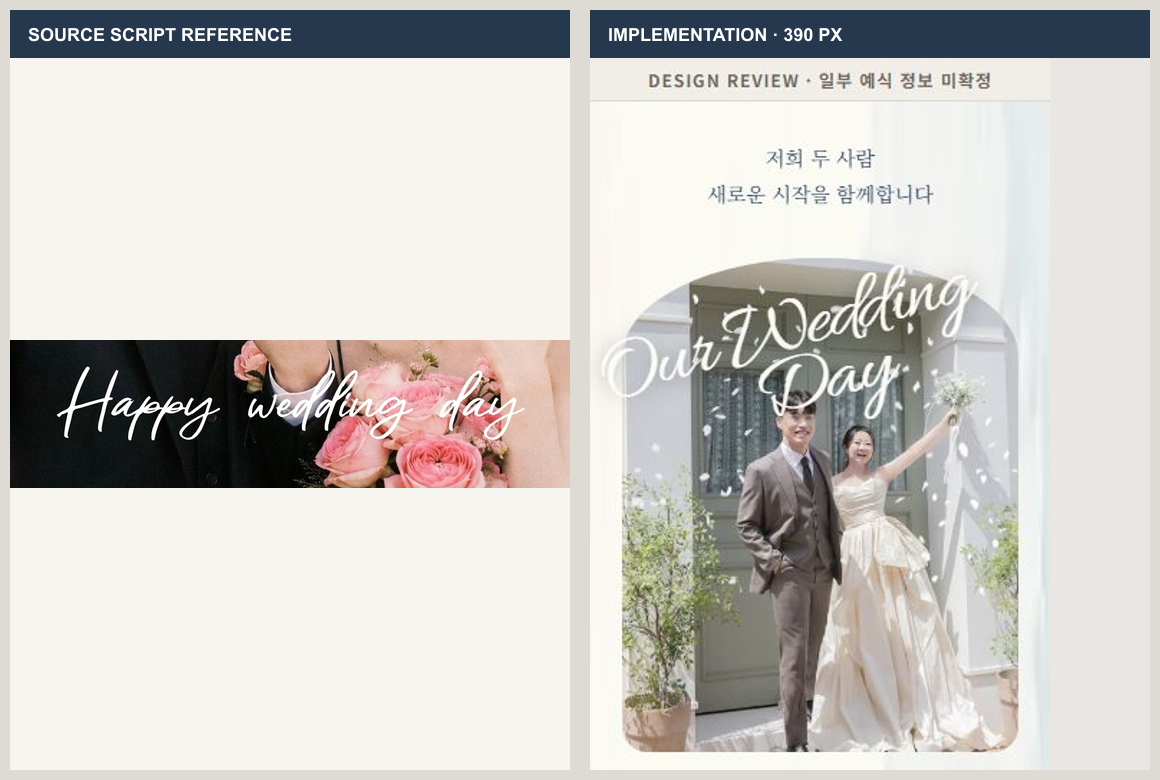
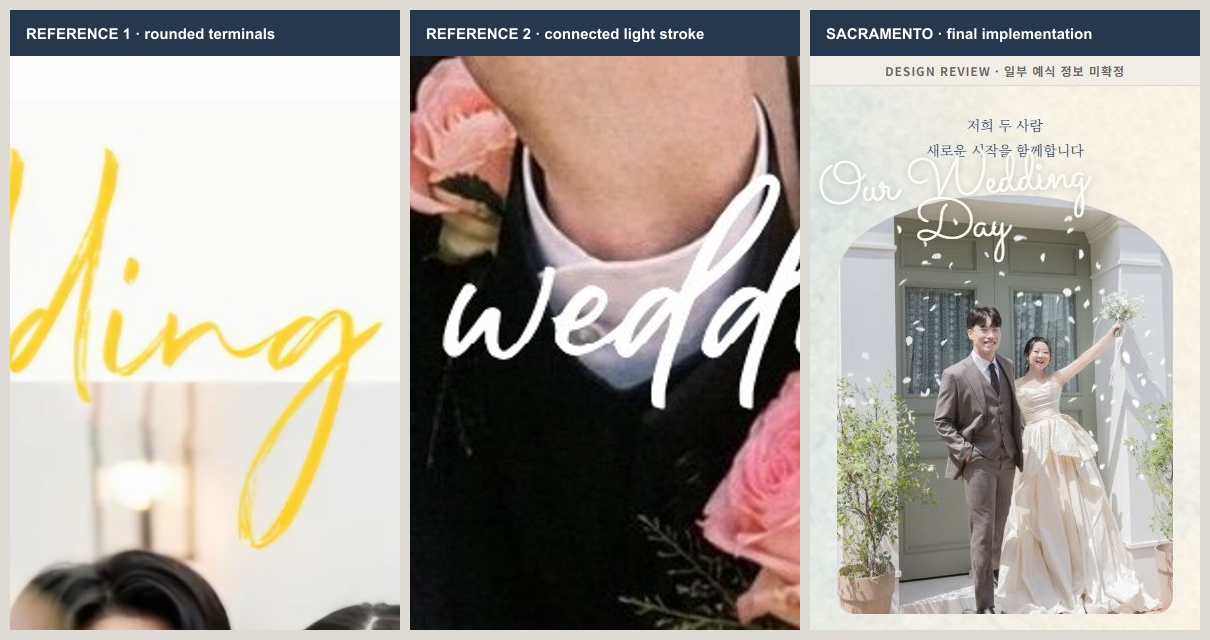
feat: 파스텔 방명록 피드백 반영

diff --git a/src/styles.css b/src/styles.css
@@ -1,5 +1,5 @@
 @import "@fontsource-variable/cormorant-garamond";
-@import "@fontsource/allura/400.css";
+@import "@fontsource/sacramento/400.css";
 @import "@fontsource-variable/noto-serif-kr";
 @import "@fontsource-variable/noto-sans-kr";
 
@@ -240,7 +240,9 @@ button:focus-visible, a:focus-visible { outline: 2px solid #315174; outline-offs
 .contact-actions { display: flex; gap: 6px; }
 .contact-actions a { display: grid; width: 44px; height: 44px; place-items: center; color: inherit; background: rgba(255, 255, 255, .72); border: 1px solid rgba(91, 82, 73, .14); border-radius: 50%; text-decoration: none; }
 .contact-actions svg { width: 18px; height: 18px; }
-.account-groups { display: grid; gap: 8px; margin-top: 10px; }
+.account-groups { display: grid; gap: 8px; margin-top: 28px; }
+.account-section-heading { margin-bottom: 2px; text-align: center; }
+.account-section-heading h3 { margin: 0; color: #4a5f75; font-family: "Noto Serif KR Variable", serif; font-size: 18px; font-weight: 520; }
 .account-list { padding: 0 12px 9px; }
 .account-row { display: grid; min-height: 64px; padding: 8px 2px; grid-template-columns: minmax(0, 1fr) auto; align-items: center; gap: 8px; border-top: 1px solid rgba(91, 82, 73, .11); }
 .account-details { display: grid; min-width: 0; gap: 3px; }
@@ -263,21 +265,16 @@ button:focus-visible, a:focus-visible { outline: 2px solid #315174; outline-offs
 .pastel-invitation::before,
 .pastel-invitation::after { position: absolute; z-index: 0; inset: 0; content: ""; pointer-events: none; }
 .pastel-invitation::before {
-  background-image:
-    url("/assets/design/pastel-watercolor-wash.webp"),
-    radial-gradient(ellipse at 5% 19%, rgba(202, 225, 241, .32), transparent 24%),
-    radial-gradient(ellipse at 96% 44%, rgba(246, 211, 218, .29), transparent 25%),
-    radial-gradient(ellipse at 8% 67%, rgba(212, 229, 241, .25), transparent 25%),
-    radial-gradient(ellipse at 91% 88%, rgba(244, 213, 220, .24), transparent 24%);
-  background-position: 50% 0, 0 0, 0 0, 0 0, 0 0;
+  background-image: url("/assets/design/pastel-watercolor-surface.webp");
+  background-position: 20% center;
   background-repeat: no-repeat;
-  background-size: 310% 100%, 100% 100%, 100% 100%, 100% 100%, 100% 100%;
-  opacity: .82;
+  background-size: auto 100%;
+  opacity: .92;
 }
 .pastel-invitation::after {
-  background: url("/assets/design/pastel-paper-grain.svg") 0 0 / 180px 180px repeat;
+  background: url("/assets/design/pastel-paper-grain.svg") 0 0 / 150px 150px repeat;
   mix-blend-mode: multiply;
-  opacity: .18;
+  opacity: .22;
 }
 .pastel-invitation > * { position: relative; z-index: 1; }
 .pastel-hero { position: relative; padding: clamp(26px, 7vw, 34px) 0 clamp(34px, 9vw, 42px); overflow: visible; background: transparent; }
@@ -286,20 +283,20 @@ button:focus-visible, a:focus-visible { outline: 2px solid #315174; outline-offs
 .pastel-hero-photo { width: 86%; aspect-ratio: 4 / 5; margin: 0 auto clamp(32px, 8vw, 40px); overflow: visible; border-radius: 50% 50% 18px 18px / 20% 20% 18px 18px; }
 .pastel-hero-photo img { border-radius: inherit; filter: saturate(.88) contrast(.96) brightness(1.02); }
 .pastel-hero-photo .photo-overlay-label {
-  --hero-label-rotation: -15deg;
-  top: 10%;
-  left: clamp(-22px, -4vw, -14px);
+  --hero-label-rotation: -4deg;
+  top: clamp(-28px, -6.5vw, -20px);
+  left: clamp(-20px, -4.5vw, -13px);
   display: grid;
   justify-items: start;
   color: rgba(255, 253, 248, .98);
-  font-family: "Allura", cursive;
-  font-size: clamp(50px, 15.2vw, 65px);
+  font-family: "Sacramento", cursive;
+  font-size: clamp(52px, 15vw, 64px);
   font-weight: 400;
   line-height: .62;
   letter-spacing: -.035em;
-  text-shadow: 0 2px 16px rgba(25, 38, 48, .52);
+  text-shadow: 0 1px 7px rgba(25, 38, 48, .26);
 }
-.pastel-hero-photo .photo-overlay-label-line.is-day { margin-top: .08em; margin-left: clamp(84px, 26vw, 112px); }
+.pastel-hero-photo .photo-overlay-label-line.is-day { margin-top: 0; margin-left: clamp(78px, 24vw, 104px); }
 .pastel-hero-copy { position: relative; display: flex; padding: 0 30px; flex-direction: column; align-items: center; justify-content: center; background: transparent; text-align: center; }
 .pastel-hero h1 { margin: 0; font-family: "Noto Serif KR Variable", serif; font-size: 29px; font-weight: 430; letter-spacing: .12em; }
 .pastel-hero h1 b { font-weight: 300; }

diff --git a/src/App.jsx b/src/App.jsx
@@ -399,7 +399,10 @@ function AccountGroups({ notify }) {
   };
 
   return (
-    <div className="account-groups" aria-label="계좌 안내">
+    <section className="account-groups" aria-labelledby="account-title">
+      <div className="account-section-heading">
+        <h3 id="account-title">마음 전하실 곳</h3>
+      </div>
       {Object.values(weddingContent.accounts).map((account) => (
         <details className={`contact-group account-group is-${account.key}`} key={account.key}>
           <summary>
@@ -423,7 +426,7 @@ function AccountGroups({ notify }) {
           </div>
         </details>
       ))}
-    </div>
+    </section>
   );
 }
 
@@ -657,9 +660,9 @@ function GuestbookSection({ notify }) {
     <section className="guestbook-section section-pad" aria-labelledby="guestbook-title">
       <div className="section-heading">
         <p className="eyebrow">PRIVATE GUESTBOOK</p>
-        <h2 id="guestbook-title">마음을 전해 주세요</h2>
+        <h2 id="guestbook-title">방명록을 남겨주세요</h2>
       </div>
-      <p className="guestbook-privacy">메시지는 공개되지 않으며 신랑·신부만 확인할 수 있습니다.</p>
+      <p className="guestbook-privacy">메시지는 공개되지 않으며<br />신랑·신부만 확인할 수 있습니다.</p>
       {receipt && (
         <div className="guestbook-receipt" role="status">
           <span>수정용 접수 번호</span>
@@ -692,8 +695,8 @@ function GuestbookSection({ notify }) {
         </label>
         <label>
           <span>비밀번호</span>
-          <input type="password" value={password} onChange={(event) => setPassword(event.target.value)} required minLength={8} maxLength={72} autoComplete={mode === "write" ? "new-password" : "current-password"} />
-          <small>8자 이상 · 서버에서 단방향 해시로만 보관합니다.</small>
+          <input type="password" value={password} onChange={(event) => setPassword(event.target.value)} required minLength={4} maxLength={72} autoComplete={mode === "write" ? "new-password" : "current-password"} />
+          <small>4자 이상</small>
         </label>
         {(mode === "write" || unlocked) && (
           <label>

diff --git a/worker/index.js b/worker/index.js
@@ -1,6 +1,7 @@
 const API_PREFIX = "/api/guestbook";
 const PASSWORD_ITERATIONS = 600_000;
 const MAX_BODY_BYTES = 8_192;
+const GUESTBOOK_RETENTION = "permanent";
 
 function json(body, status = 200, extraHeaders = {}) {
   return new Response(JSON.stringify(body), {
@@ -93,7 +94,7 @@ function normalizeEntry(payload, { requireMessage = true } = {}) {
   const password = typeof payload.password === "string" ? payload.password : "";
   const message = typeof payload.message === "string" ? payload.message.trim() : "";
   if (name.length < 1 || name.length > 30) throw { status: 400, code: "INVALID_NAME", message: "이름은 1~30자로 입력해 주세요." };
-  if (password.length < 8 || password.length > 72) throw { status: 400, code: "INVALID_PASSWORD", message: "비밀번호는 8~72자로 입력해 주세요." };
+  if (password.length < 4 || password.length > 72) throw { status: 400, code: "INVALID_PASSWORD", message: "비밀번호는 4~72자로 입력해 주세요." };
   if (requireMessage && (message.length < 1 || message.length > 500)) {
     throw { status: 400, code: "INVALID_MESSAGE", message: "메시지는 1~500자로 입력해 주세요." };
   }
@@ -123,7 +124,7 @@ async function createEntry(request, env) {
   await db.prepare(
     "INSERT INTO guestbook_entries (id, name, message, password_hash, created_at, updated_at) VALUES (?, ?, ?, ?, ?, ?)",
   ).bind(id, name, message, passwordHash, timestamp, timestamp).run();
-  return json({ id }, 201);
+  return json({ id, retention: GUESTBOOK_RETENTION }, 201);
 }
 
 async function unlockEntry(request, env, id) {
@@ -160,6 +161,7 @@ function getTrustedAdminEmail(request, env) {
     .split(",")
     .map((value) => value.trim().toLowerCase())
     .filter(Boolean);
+  if (allowed.length !== 2 || new Set(allowed).size !== 2) return null;
   return allowed.includes(email) ? email : null;
 }
 

diff --git a/design-qa.md b/design-qa.md
@@ -1,34 +1,28 @@
 # Design QA
 
-## Accepted pass — Pastel script overlay, continuous watercolor, private guestbook, and opt-in music
+## Current accepted pass — Sacramento label, full-surface watercolor, and private guestbook policy
 
-### Source and implementation evidence
+### References, font decision, and implementation evidence
 
-- Script source: `C:\Users\enmso\AppData\Local\Temp\codex-clipboard-afa74bd9-0c52-4bf9-98cd-8e93847e741a.png`.
-- Script implementation capture: `artifacts/qa/pastel-hero-script-390.png`, CSS viewport 390 × 844, `devicePixelRatio: 1`, `?variant=pastel&capture=1`.
-- Focused script comparison inspected as one image: `artifacts/qa/pastel-script-reference-comparison.png`.
-- Calendar seam source: `C:\Users\enmso\AppData\Local\Temp\codex-clipboard-01ed0016-ff59-4c41-833f-5c38d9582124.png`.
-- Calendar implementation capture: `artifacts/qa/pastel-calendar-seam-390.png`, CSS viewport 390 × 844, `devicePixelRatio: 1`, scrolled invitation state.
-- Focused seam comparison inspected as one image: `artifacts/qa/pastel-calendar-seam-comparison.png`.
+- Active script source truth is the supplied `1-사진-1.jpg` and `2-사진-2.jpg` in `C:\Users\enmso\.codex\codex-remote-attachments\019ff501-f8d7-7280-b3f3-9fed0fbb6140\1A1AB2CB-03BC-490D-A976-70A65304E6E7`. The earlier clipboard reference is deliberately excluded from current comparison and decision-making.
+- `artifacts/qa/pastel-script-font-candidates-390.png` is the same-phrase, same-size, same-photo-placement comparison for self-hostable OFL-1.1 Sacramento, Parisienne, Italianno, and Alex Brush. Sacramento was selected: it preserves the requested smooth, rounded terminals; Alex Brush is closer in some reference letter shapes but has sharper terminals that could repeat the reported defect.
+- `artifacts/qa/pastel-script-reference-comparison.png` compares both active references with the final 390px Sacramento implementation. The label remains a restrained `-4deg` two-line `Our Wedding` / `Day` treatment rather than the former strong rotation; its 390px bounds are `7.5..280.1px` inside the `0..390px` invitation, with the image left edge at `27.3px`. It remains unclipped and visually clear of the groom's head.
+- Final whole-page background is `public/assets/design/pastel-watercolor-surface.webp` (864 × 1821, 68,646 bytes), rendered once at `auto 100%` beneath the existing repeated real paper-grain SVG. It replaces the 1.89MB staging PNG and avoids CSS radial gradients, 3:1 wash repetition, and vertically stretched `310% 100%` raster treatment.
+- The full-page raster came from built-in ImageGen after the supplied wash showed repeat banding. Prompt summary: a vertical warm-ivory watercolor-paper surface with distributed powder-blue and blush washes, fine paper fibers, no people, text, objects, borders, panels, bands, or seams. No supplied person photograph was AI-edited.
+- IAB Browser evidence uses the LAN preview `http://192.168.0.196:4173/?variant=pastel&capture=1`, CSS viewport 390 × 844, `devicePixelRatio: 1`: `artifacts/qa/pastel-sacramento-final-390-top.png`, `artifacts/qa/pastel-watercolor-surface-390-middle.png`, and `artifacts/qa/pastel-watercolor-surface-390-bottom.png`. The top, story/venue middle, and guestbook/footer bottom all retain restrained texture and watercolor without a repeated boundary or contrast loss.
 
-### Findings and fixes
+### Content, privacy, and activation boundary
 
-- Initial script mismatch: Dancing Script was round and casual, stayed too close to the photo interior, and used only a mild diagonal. Fix: self-hosted Allura, exact two-line `Our Wedding` / `Day`, `-15deg` rotation, a larger fluid size, and a second-line offset. At 390px its bounds were `6.09..282.19px` inside the `0..390px` invitation while extending left of the `27.30px` photo edge; there was no clipping or horizontal overflow.
-- Initial seam mismatch: three isolated placements of the 1200 × 400 watercolor source left visually separate coverage bands around the calendar. Fix: one full-height watercolor layer at `310% 100%`, four overlapping distributed blue/blush washes, one unchanged paper-grain layer, and transparent sections. The focused calendar composite shows no hard horizontal boundary between family copy, `WEDDING DAY`, the heading, and the calendar grid.
-- Music is a compact 44px fixed play/pause control with no autoplay and `preload="none"`. Live browser evidence was paused at `currentTime: 0`, played only after a click (`currentTime: 0.491`, `paused: false`), and returned to `paused: true`. Footer credit identifies Kevin MacLeod and links CC BY 4.0.
-- The public guestbook renders name/password/message fields but no message list or admin link. The author receives and can copy an opaque edit receipt after creation; the receipt is also stored on the same device. Missing API/storage returns an explicit message that nothing was sent.
-- `/admin/guestbook` is a separate couple-only surface. The Worker list endpoint fails closed without D1 and trusted upstream identity; no client-side administrator secret is present.
+- Pastel separates `마음 전하실 곳` from `방명록을 남겨주세요`. The private notice has a visual line break immediately after `메시지는 공개되지 않으며`, and the form/API/tests/docs use the same 4–72 character password contract. Hash-explanation copy is absent from the invitation while server-side PBKDF2-HMAC-SHA256 verification remains intact.
+- Create responses declare `retention: "permanent"`; no expiration, TTL, cleanup, or public guestbook-list endpoint exists. Retention does not bypass ordinary backup or operations controls.
+- `/admin/guestbook` and its API fail closed without D1 plus trusted upstream identity. The Worker accepts only exactly two distinct deployment-environment allowlist values. The actual groom/bride addresses are intentionally absent from source, tests, documentation, bundles, and QA artifacts; no external environment was changed.
 
-### Responsive and accessibility evidence
+### Verification status
 
-- Both Quiet and Pastel passed live checks at 360, 390, 430, 768, and 1440px: zero horizontal overflow, invitation capped at 430px above mobile widths, minimum tested control height 44px, and capture-mode sections immediately visible.
-- Pastel script bounds stayed inside the invitation at every required width. Quiet had no visual regression.
-- Keyboard focus showed a 2px solid outline on the variant control. Reduced-motion/capture behavior remains covered by the passing UI suite.
-- `npm run lint` passed; UI tests passed 34/34; Sites and private guestbook tests passed 10/10; design build and D1 migration packaging passed.
-
-### Remaining production activation boundary
-
-- Visual implementation is accepted. Production guestbook activation remains blocked until a real D1 database is provisioned, the migration is applied, and Sites Sign in with ChatGPT or an equivalent trusted identity gateway supplies an exact couple email allowlist. A distributed create/unlock/update rate limit is also required before public enablement.
+- IAB Browser LAN checks at 360, 390, 430, 768, and 1440px for both Quiet and Pastel found `scrollWidth === clientWidth`, zero failed images, a 430px desktop invitation cap, one calendar and one share action, and immediate capture-mode section visibility. Pastel has five photo triggers and Quiet keeps four; the Pastel label remains inside the invitation at every width.
+- Action controls measured 44px or more (the only smaller interactive element is the inline `CC BY 4.0` attribution link, not a utility control). Keyboard Tab reached the Pastel hero trigger with a 2px solid, 3px-offset focus outline. Emulated `prefers-reduced-motion: reduce` reported `labelAnimation: none`, static `-4deg` treatment, reveal opacity `1`, transform `none`, and transition duration `0s`.
+- `npm run lint` passed. `npm run test:ui` passed 35/35. `npm run build:design` passed and copied the 68,646-byte WebP to `dist/client/assets/design/`; `dist/client/index.html`, `dist/server/index.js`, and `dist/.openai/hosting.json` exist. `npm run test:sites` passed 12/12, including four-character password and exact-two-distinct-environment-allowlist cases.
+- Repository scans found no stale 8-character guestbook contract and no literal groom/bride administrator addresses. The final dependency tree contains Sacramento only; individual candidate captures, the comparison route/UI, unused candidate packages, and the staging PNG are absent.
 
 final result: passed
 
@@ -36,7 +30,7 @@ final result: passed
 
 ### Implemented outcome
 
-- The Pastel-only hero label now uses the self-hosted Latin `Dancing Script` webfont as a lightweight, diagonal two-line `Our Wedding` / `Day` composition. It extends slightly beyond the left photo edge while remaining inside the invitation; the approved 86% arched frame and `50% 58%` photo focal position are unchanged.
+- Earlier handwritten-script experiments are superseded by the current Sacramento decision and must not be used as implementation or visual-reference evidence. The approved 86% arched frame and `50% 58%` photo focal position remain unchanged.
 - The supplied watercolor wash is distributed through the full Pastel invitation at three natural positions, with low-opacity blue/blush support washes and a local procedural paper-grain asset behind content. It is no longer visually concentrated only at the hero's upper edge.
 - Pastel inter-section reveal gaps increase from 14px to 28px and its internal section padding is more generous, without adding spacer sections or changing Quiet spacing.
 - Pastel contact and account disclosures are independently collapsed by default. Groom/bride emoji markers appear on all four summary titles; each account has an accessible copy control. Account values are modeled once in source and intentionally omitted from tests, logs, and this QA record.
@@ -44,7 +38,7 @@ final result: passed
 
 ### Live browser evidence
 
-- At 360, 390, 430, 768, and 1440px, Pastel had no horizontal overflow or loaded-image failures. The hero stayed at a 0.86 photo-to-invitation ratio; the label used `Dancing Script`, crossed the photo's left edge, and stayed within the invitation.
+- At 360, 390, 430, 768, and 1440px, the earlier Pastel version had no horizontal overflow or loaded-image failures. The current-font evidence is the top-level Sacramento pass.
 - The two Pastel account disclosures were initially closed, the two copy controls remained at least 44px tall, and a copy click produced the expected success feedback without exposing the value in QA evidence.
 - The shared Pastel lightbox opened from the hero with focus on `갤러리 닫기`; Escape closed it and restored focus to the hero trigger. Under emulated reduced motion, the label animation was disabled while its static diagonal stayed intact, and reveal sections rendered opaque with no transform.
 - Quiet regression at the same five widths found no overflow or loaded-image failures, exactly four photo triggers, no account disclosure, and one calendar plus one share action. Its lightbox kept the same keyboard focus restoration behavior.

diff --git a/AGENTS.md b/AGENTS.md
@@ -19,8 +19,8 @@
 - Quiet and Pastel photographs share one accessible lightbox behavior. Keep its backdrop in the active invitation's light paper/pastel tone rather than introducing a dark gallery surface.
 - Pastel uses a real-photo-first hero and one continuous watercolor paper surface without a divider above `INVITATION`. Keep the single calendar action and the single share action together in the footer; do not restore top or duplicate calendar/copy controls.
 - Pastel keeps `2026년 12월` and `27일 일요일 · 오후 3시 예식` as one tight, centered two-line calendar heading. Do not separate them across the row or omit the weekday.
-- Pastel displays the exact English label `Our Wedding Day` as a self-hosted handwritten/calligraphic webfont in a lightly diagonal two-line `Our Wedding` / `Day` treatment. Let it extend slightly past the inset photo's left edge without clipping, adding a card, or changing the approved crop; reduced motion keeps the static diagonal treatment.
-- Pastel carries a subtle paper texture and distributed powder-blue/blush watercolor wash across the full invitation, rather than concentrating color only in the hero or top-right. Keep it behind readable content and use no separate color panels.
+- Pastel displays the exact English label `Our Wedding Day` in a self-hosted Sacramento (OFL-1.1) script treatment, using the two-line `Our Wedding` / `Day` composition with a restrained diagonal. The source truth is `1-사진-1.jpg` and `2-사진-2.jpg` in the supplied attachment folder: prioritize smooth rounded terminals, raise the label clear of the groom's head, and let it extend slightly past the inset photo's left edge without clipping, adding a card, or changing the approved crop; reduced motion keeps the static diagonal treatment.
+- Pastel carries a visible-but-restrained paper texture and distributed powder-blue/blush watercolor wash across the full invitation, rather than concentrating color only in the hero or top-right. Keep it behind readable content and use no separate color panels. The supplied 3:1 wash produced visible repeat bands, so use the project-local nonrepeating optimized `pastel-watercolor-surface.webp` full-page asset behind the real paper-grain SVG; never reintroduce CSS radial gradients or a vertically stretched `310% 100%` treatment.
 - Invitation sections use restrained opacity/vertical scroll reveals and increased natural spacing, while `prefers-reduced-motion` and capture mode render every section immediately without motion.
 - The approved Pastel top-hero source is `KSJ_1400.jpg`, served only through optimized `public/assets/photos/pastel-hero-480.webp` and `pastel-hero-960.webp` derivatives. Preserve its 4:5 arched frame and `50% 58%` focal position; do not change Quiet's hero or any Pastel gallery selection when replacing it.
 - A venue-map screenshot may render only from the local real asset contract with descriptive alt text and preserved source attribution. Never restore a fictional design map.
@@ -32,8 +32,9 @@
 - Confirmed public account content is modeled only in `weddingContent.accounts` and renders in Pastel as independent, initially collapsed groom-side and bride-side disclosures with an accessible copy action. Do not duplicate literal account values in tests, logs, or reader-facing QA records.
 - Background music is approved only as an opt-in enhancement: playback must start off. Do not add a control or substitute any track until an exact licensed audio asset and its public playback terms are supplied.
 - The selected background track is Kevin MacLeod's `Touching Moments One - Pulse` (ISRC `USUAN1100039`) under CC BY 4.0. Keep the verified local MP3, visible footer attribution, compact 44px play/pause control, no autoplay, and paused initial state.
-- The guestbook is private and write-only for public visitors. Authors create with name, message, and an 8-72 character password, receive an opaque receipt id for later recovery, and may retrieve or edit only that one entry after server-side name/password verification. Never expose a public list endpoint.
-- Couple-only guestbook reading belongs at `/admin/guestbook` behind an upstream authenticated identity gateway and exact email allowlist. Store only salted PBKDF2-HMAC-SHA256 password verifiers in D1, never plaintext passwords, and fail closed when D1 or trusted admin identity is unavailable; do not add an in-memory or client-secret fallback.
+- The guestbook is private and write-only for public visitors. Authors create with name, message, and a 4-72 character password, receive an opaque receipt id for later recovery, and may retrieve or edit only that one entry after server-side name/password verification. Never expose a public list endpoint. The invitation UI must not explain hashing; server-side password-verifier security remains required.
+- Guestbook messages have permanent retention: do not add deletion, expiry, TTL, or cleanup behavior without a new explicit decision.
+- Couple-only guestbook reading belongs at `/admin/guestbook` behind an upstream authenticated identity gateway and exactly two approved administrator emails configured only in the deployment environment. Never commit, bundle, source-map, log, or render those addresses. Store only salted PBKDF2-HMAC-SHA256 password verifiers in D1, never plaintext passwords, and fail closed when D1 or trusted admin identity is unavailable; do not add an in-memory or client-secret fallback.
 - The confirmed event facts support the shared December calendar and start-only iCalendar action. Pastel now includes the selected `예식 일정` calendar presentation; keep exactly one footer calendar action and do not add a countdown, event timeline, or duplicate save control without a new decision.
 - Mobile readability is acceptance-critical. Do not preserve mockup-scale microtype when it becomes difficult to read on a physical phone.
 - Activate safe client-side utilities as soon as their required facts are confirmed. A start-only iCalendar event must omit `DTEND` rather than infer an end time; confirmed couple and parent contacts remain active through direct phone and message links.

diff --git a/docs/guestbook-security.md b/docs/guestbook-security.md
@@ -2,19 +2,21 @@
 
 The browser never receives a guestbook list, password hash, database credential, or administrator secret. Public API behavior is intentionally write-only:
 
-- `POST /api/guestbook/entries` creates a private entry and returns only its opaque receipt id.
+- `POST /api/guestbook/entries` creates a private entry and returns its opaque receipt id plus the fixed non-sensitive `permanent` retention policy.
 - `POST /api/guestbook/entries/:id/unlock` returns one entry only after its name and password pass server-side verification.
 - `PATCH /api/guestbook/entries/:id` updates one entry only after the same verification.
 - `GET /api/guestbook/entries` is always rejected.
 - `GET /api/guestbook/admin/entries` is the only list endpoint and fails closed unless an upstream identity provider has authenticated the request and injected a trusted assertion plus email.
 
-Author passwords are length-validated, then processed with PBKDF2-HMAC-SHA256 at 600,000 iterations and a random 128-bit salt. The encoded verifier is stored in D1; plaintext passwords are neither stored nor logged. Comparisons scan every derived byte.
+Author passwords are length-validated at 4–72 characters, then processed with PBKDF2-HMAC-SHA256 at 600,000 iterations and a random 128-bit salt. The encoded verifier is stored in D1; plaintext passwords are neither stored nor logged. Comparisons scan every derived byte.
+
+Guestbook messages have a permanent-retention policy. The Worker has no deletion or expiry endpoint, migration, TTL, or cleanup job for entries; do not add one without an explicit change to this decision. This is an application retention policy, not a substitute for backup and D1 operator access controls.
 
 Production requires all of the following before guestbook use:
 
 1. Provision D1 and bind it as `GUESTBOOK_DB`; apply `migrations/0001_guestbook.sql`.
 2. Protect `/admin/guestbook` and `/api/guestbook/admin/*` with the deployment platform's identity gateway (Sites Sign in with ChatGPT or an equivalent upstream).
-3. Configure `GUESTBOOK_AUTH_MODE=trusted-email-header`, set `GUESTBOOK_AUTH_EMAIL_HEADER` and `GUESTBOOK_AUTH_ASSERTION_HEADER` to gateway-owned headers that clients cannot inject, and set `GUESTBOOK_ADMIN_EMAILS` to the exact verified couple email allowlist.
+3. Configure `GUESTBOOK_AUTH_MODE=trusted-email-header`, set `GUESTBOOK_AUTH_EMAIL_HEADER` and `GUESTBOOK_AUTH_ASSERTION_HEADER` to gateway-owned headers that clients cannot inject, and set `GUESTBOOK_ADMIN_EMAILS` only in the deployment environment to the exact two approved groom/bride email values. The Worker fails closed unless that value contains exactly two distinct emails; never commit, bundle, source-map, or expose the addresses in invitation UI or repository configuration.
 4. Verify the gateway strips any client-supplied copies of both headers before injecting its own values.
 
 Until D1 and the identity gateway are attached, public writes return `503` and administrator reads return `503`; no in-memory or public fallback is used.
